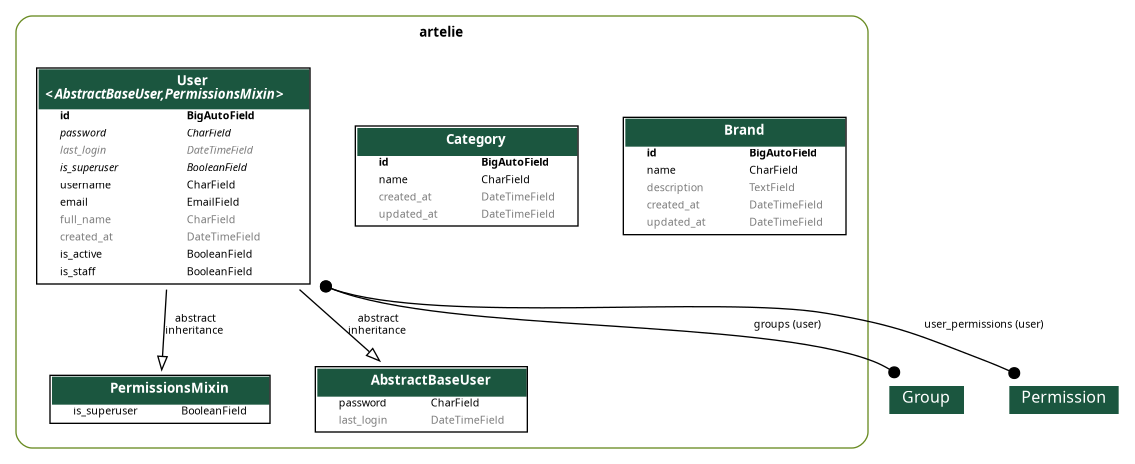
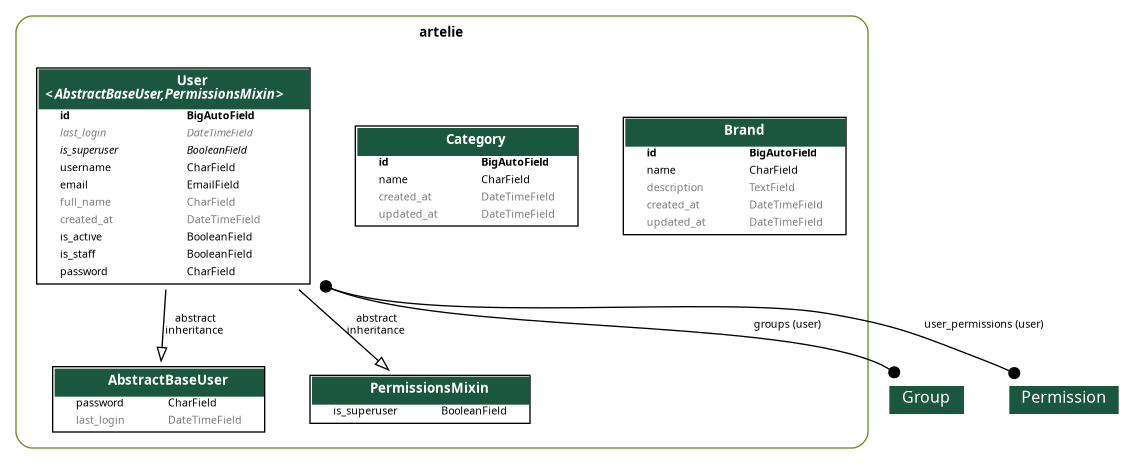
feat: adiciona migração para alterar o campo de senha do usuário e atualiza o serializer de registro

diff --git a/artelie/serializers/register.py b/artelie/serializers/register.py
@@ -2,17 +2,16 @@ from rest_framework import serializers
 from artelie.models.user import User
 
 class RegisterSerializer(serializers.ModelSerializer):
-    password = serializers.CharField(write_only=True, min_length=8)
+    password = serializers.CharField(write_only=True)
+    username = serializers.CharField(required=True)
 
     class Meta:
         model = User
-        fields = ['username', 'email', 'full_name', 'password']
+        fields = ['username', 'email', 'password', 'full_name']
 
     def create(self, validated_data):
-        user = User.objects.create_user(
-            username=validated_data['username'],
-            email=validated_data['email'],
-            password=validated_data['password'],
-            full_name=validated_data.get('full_name', '')
-        )
+        password = validated_data.pop('password')
+        user = User(**validated_data)
+        user.set_password(password)
+        user.save()
         return user

diff --git a/config/urls.py b/config/urls.py
@@ -20,7 +20,7 @@ router.register(r'users', UserViewSet, basename='user')
 urlpatterns = [
     path('admin/', admin.site.urls),
     path('api/', include(router.urls)),
-    path('/', include(router.urls)),
+    path('', include(router.urls)),
     path("token/", TokenObtainPairView.as_view(), name="token_obtain_pair"),
     path("token/refresh/", TokenRefreshView.as_view(), name="token_refresh"),
     path("profile/", ProfileView.as_view(), name="user_profile"),

diff --git a/artelie/migrations/0002_alter_user_password.py b/artelie/migrations/0002_alter_user_password.py
@@ -1,0 +1,18 @@
+# Generated by Django 5.2.3 on 2025-08-22 18:57
+
+from django.db import migrations, models
+
+
+class Migration(migrations.Migration):
+
+    dependencies = [
+        ('artelie', '0001_initial'),
+    ]
+
+    operations = [
+        migrations.AlterField(
+            model_name='user',
+            name='password',
+            field=models.CharField(max_length=128),
+        ),
+    ]

diff --git a/config/settings.py b/config/settings.py
@@ -70,10 +70,12 @@ INSTALLED_APPS = [
 ]
 
 REST_FRAMEWORK = {
-    "DEFAULT_AUTHENTICATION_CLASSES": (
+    "DEFAULT_AUTHENTICATION_CLASSES": [
         "rest_framework_simplejwt.authentication.JWTAuthentication",
-    ),
-    
+    ],
+    "DEFAULT_PERMISSION_CLASSES": [
+        "rest_framework.permissions.IsAuthenticated",
+    ],
 }
 
 MIDDLEWARE = [

diff --git a/artelie/models/user.py b/artelie/models/user.py
@@ -23,6 +23,7 @@ class User(AbstractBaseUser, PermissionsMixin):
     created_at = models.DateTimeField(auto_now_add=True)
     is_active = models.BooleanField(default=True)
     is_staff = models.BooleanField(default=False)
+    password = models.CharField(max_length=128)
 
     objects = UserManager()
 
